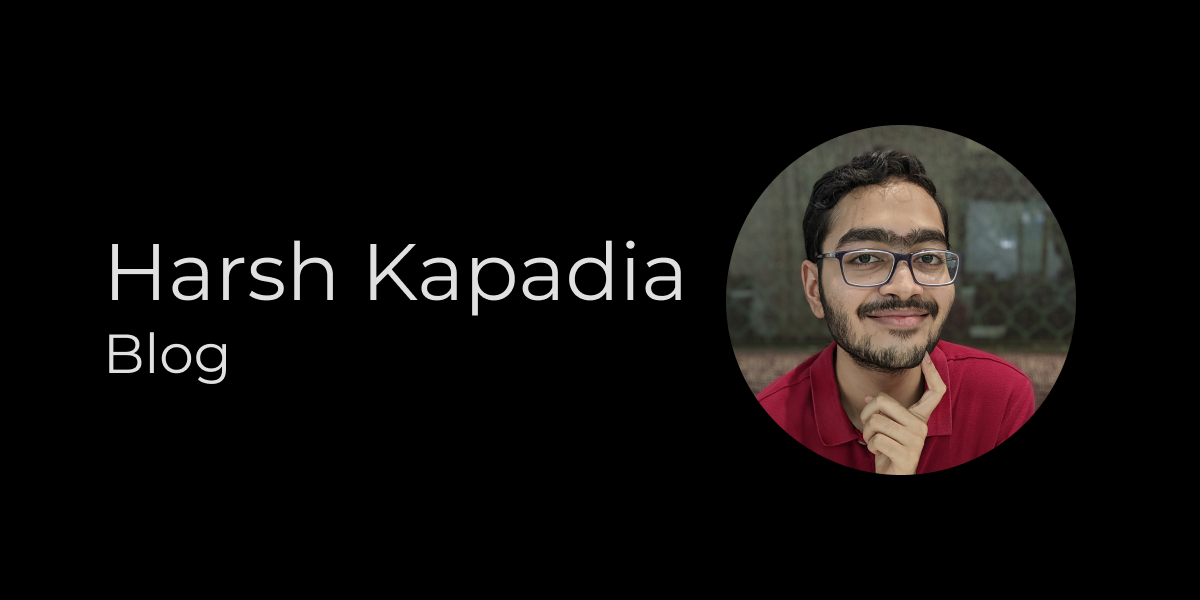
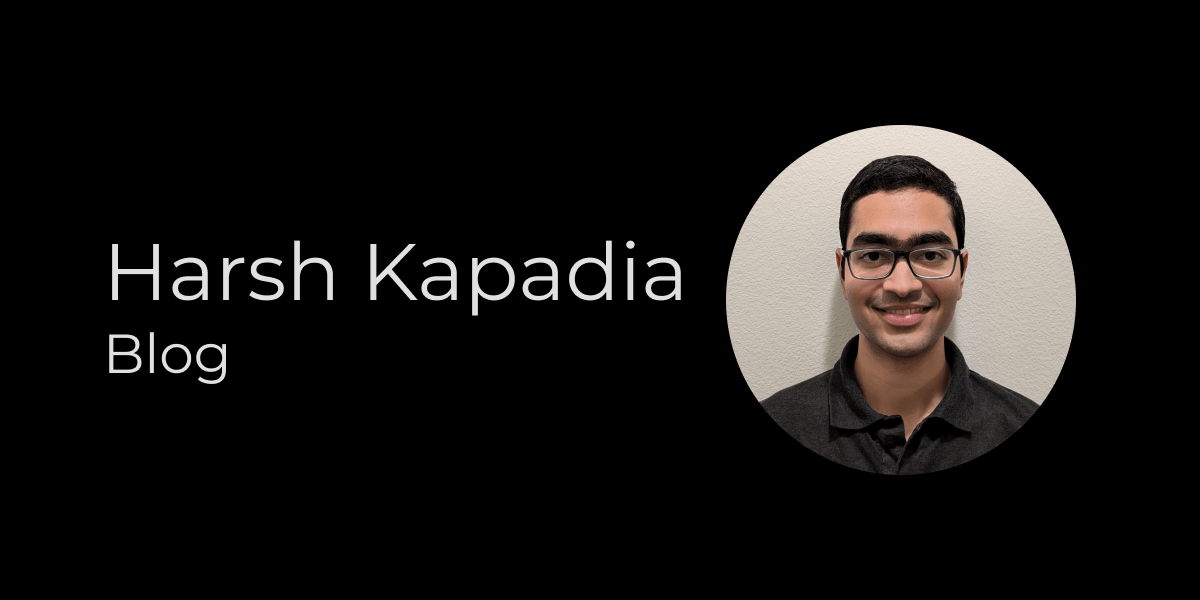
Update blog config, GitHub Action and OG images

Changed region(s): [[0.5858, 0.21, 0.8942, 0.81]]

diff --git a/README.md b/README.md
@@ -7,5 +7,3 @@ Hosted at [blog.harshkapadia.me](https://blog.harshkapadia.me).
 ---
 
 Built using the [PaperMod Hugo theme](https://github.com/adityatelange/hugo-PaperMod).
-
-[![Open in Gitpod](https://gitpod.io/button/open-in-gitpod.svg)](https://gitpod.io/#https://github.com/HarshKapadia2/blog)
